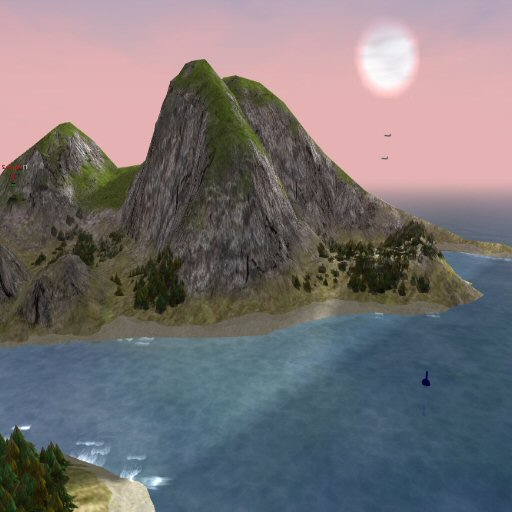
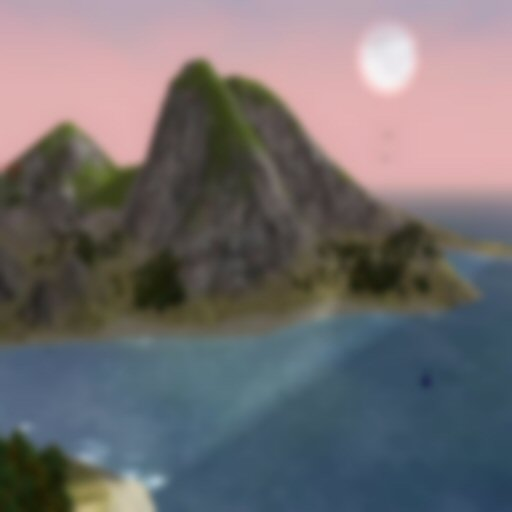
no message

diff --git a/scorched/src/dialogs/BackdropDialog.cpp b/scorched/src/dialogs/BackdropDialog.cpp
@@ -37,12 +37,14 @@ BackdropDialog *BackdropDialog::instance()
 
 BackdropDialog::BackdropDialog() : 
 	GLWWindow("", 0.0f, 0.0f, 0.0f, 0.0f, 0,
-		"The backdrop dialog")
+		"The backdrop dialog"),
+	pixels_(0)
 {
 	windowLevel_ = 5000000;
 
 	GLImageHandle backMap = GLImageFactory::loadImageHandle(
 		getDataFile("data/windows/backdrop.jpg"));
+		//getDataFile("data/windows/logotiled.bmp"));
 	backTex_.create(backMap, false);
 }
 
@@ -52,7 +54,25 @@ BackdropDialog::~BackdropDialog()
 
 void BackdropDialog::draw()
 {
-	drawBackground();
+	if (!pixels_)
+	{
+		drawBackground();
+	}
+	else
+	{
+		GLState state(GLState::DEPTH_OFF | GLState::TEXTURE_OFF);
+
+		glColor3f(1.0f, 1.0f, 1.0f);
+		glPixelStorei(GL_PACK_ALIGNMENT, 4);
+		glPixelStorei(GL_PACK_ROW_LENGTH, 0);
+		glPixelStorei(GL_PACK_SKIP_ROWS, 0);
+		glPixelStorei(GL_PACK_SKIP_PIXELS, 0);
+
+		glRasterPos2i(0, 0);
+		glDrawPixels(GLViewPort::getWidth(), GLViewPort::getHeight(), 
+			GL_RGB, GL_UNSIGNED_BYTE, pixels_);
+	}
+
 	drawLogo();
 }
 
@@ -77,6 +97,32 @@ void BackdropDialog::drawBackground()
 		glTexCoord2f(0.0f, 1.0f);
 		glVertex2f(0.0f, wHeight);
 	glEnd();	
+}
+
+void BackdropDialog::drawBackgroundTiled()
+{
+	GLState currentState(GLState::DEPTH_OFF | GLState::TEXTURE_ON);
+
+	// Calcuate how may tiles are needed
+	float wWidth = (float) GLViewPort::getWidth();
+	float wHeight = (float) GLViewPort::getHeight();
+	float xScale = wWidth / 128.0f;
+	float yScale = wHeight / 128.0f;
+
+	// Draw the tiled logo backdrop
+	float offset_ = 0.0f;
+	backTex_.draw(true);
+	glColor3f(0.2f, 0.2f, 0.2f);
+	glBegin(GL_QUADS);
+		glTexCoord2f(0.0f - offset_, 0.0f + offset_);
+		glVertex2f(0.0f, 0.0f);
+		glTexCoord2f(xScale - offset_, 0.0f + offset_);
+		glVertex2f(wWidth, 0.0f);
+		glTexCoord2f(xScale - offset_, yScale + offset_);
+		glVertex2f(wWidth, wHeight);
+		glTexCoord2f(0.0f - offset_, yScale + offset_);
+		glVertex2f(0.0f, wHeight);
+	glEnd();
 }
 
 void BackdropDialog::drawLogo()
@@ -119,4 +165,61 @@ void BackdropDialog::drawLogo()
 			glVertex2f(0.0f, logoHeight);
 		glEnd();
 	glPopMatrix();
+}
+
+void BackdropDialog::capture()
+{
+	glPixelStorei(GL_PACK_ALIGNMENT, 4);
+	glPixelStorei(GL_PACK_ROW_LENGTH, 0);
+	glPixelStorei(GL_PACK_SKIP_ROWS, 0);
+	glPixelStorei(GL_PACK_SKIP_PIXELS, 0);
+
+	unsigned char *screenpixels = new unsigned char[GLViewPort::getWidth() * GLViewPort::getHeight() * 3];
+	glReadPixels(0, 0, GLViewPort::getWidth(), GLViewPort::getHeight(), GL_RGB, GL_UNSIGNED_BYTE, screenpixels);
+
+	if (!pixels_) pixels_ = new unsigned char[GLViewPort::getWidth() * GLViewPort::getHeight() * 3];
+
+	unsigned char *dest = pixels_;
+	unsigned char *src = screenpixels;
+	for (int y=0; y<GLViewPort::getHeight(); y++)
+	{
+		for (int x=0; x<GLViewPort::getWidth(); x++, dest+=3, src+=3)
+		{
+			int totalr = 0;
+			int totalg = 0;
+			int totalb = 0;
+			if (x>=3 && x<GLViewPort::getWidth()-3 &&
+				y>=3 && y<GLViewPort::getHeight()-3)
+			{
+				for (int a=-3; a<=3; a++)
+				{
+					for (int b=-3; b<=3; b++)
+					{
+						int srcx = a + x;
+						int srcy = b + y;
+						unsigned char *src2 = src + a * 3 + b * GLViewPort::getWidth() * 3;
+
+						totalr += src2[0];
+						totalg += src2[1];
+						totalb += src2[2];
+					}
+				}
+				totalr /= 49;
+				totalg /= 49;
+				totalb /= 49;
+			}
+			else
+			{
+				totalr = src[0];
+				totalg = src[1];
+				totalb = src[2];
+			}
+
+			dest[0] = totalr;
+			dest[1] = totalg;
+			dest[2] = totalb;
+		}
+	}
+
+	delete [] screenpixels;
 }

diff --git a/scorched/src/client/ClientMain.cpp b/scorched/src/client/ClientMain.cpp
@@ -61,6 +61,7 @@
 #include <graph/Display.h>
 #include <dialogs/HelpButtonDialog.h>
 #include <dialogs/AnimatedBackdropDialog.h>
+#include <dialogs/BackdropDialog.h>
 #include <server/ScorchedServer.h>
 #include <GLEXT/GLConsoleFileReader.h>
 #include <GLEXT/GLConsole.h>
@@ -241,7 +242,7 @@ static bool initClient()
 	return true;
 }
 
-bool ClientMain::startClient()
+static bool startClientInternal()
 {
 	// Check if we are connecting to a server
 	if (ClientParams::instance()->getConnect()[0])
@@ -294,6 +295,14 @@ bool ClientMain::startClient()
 	}
 
 	return true;
+}
+
+bool ClientMain::startClient()
+{
+	AnimatedBackdropDialog::instance()->drawBackground();
+	BackdropDialog::instance()->capture();
+
+	return startClientInternal();
 }
 
 bool ClientMain::clientEventLoop(float frameTime)
@@ -386,7 +395,7 @@ bool ClientMain::clientMain()
 	OptionsDisplayConsole::instance()->addDisplayToConsole();
 
 	// Try and start the client
-	if (!startClient()) return false;
+	if (!startClientInternal()) return false;
 
 	// Enter the SDL main loop to process SDL events
 	Clock loopClock;

diff --git a/scorched/src/dialogs/AnimatedBackdropDialog.cpp b/scorched/src/dialogs/AnimatedBackdropDialog.cpp
@@ -26,6 +26,7 @@
 #include <graph/Main2DCamera.h>
 #include <graph/OptionsDisplay.h>
 #include <engine/ActionController.h>
+#include <engine/MainLoop.h>
 #include <tankgraph/RenderTargets.h>
 #include <landscape/Landscape.h>
 #include <client/ScorchedClient.h>
@@ -94,9 +95,19 @@ void AnimatedBackdropDialog::init()
 	Landscape::instance()->reset(&progressCounter);
 
 	OptionsDisplay::instance()->getNoWaterMovementEntry().setValue(waterMove);
+
+	// Hack to get camera synched
+	simulate(5.0f);
+	ScorchedClient::instance()->getMainLoop().getTimer().getTimeDifference();
 }
 
 void AnimatedBackdropDialog::draw()
+{
+	drawBackground();
+	BackdropDialog::instance()->drawLogo();
+}
+
+void AnimatedBackdropDialog::drawBackground()
 {
 	if (!init_) init();
 
@@ -111,8 +122,6 @@ void AnimatedBackdropDialog::draw()
 
 	// Return the viewport to the original
 	Main2DCamera::instance()->draw(0);
-
-	BackdropDialog::instance()->drawLogo();
 }
 
 void AnimatedBackdropDialog::simulate(float frameTime)

diff --git a/scorched/src/dialogs/BackdropDialog.h b/scorched/src/dialogs/BackdropDialog.h
@@ -31,13 +31,17 @@ public:
 
 	virtual void draw();
 	void drawBackground();
+	void drawBackgroundTiled();
 	void drawLogo();
+
+	void capture();
 
 protected:
 	static BackdropDialog *instance_;
 	GLTexture backTex_;
 	GLTexture logoTex_;
 	std::string lastMod_;
+	unsigned char *pixels_;
 
 private:
 	BackdropDialog();

diff --git a/scorched/src/dialogs/AnimatedBackdropDialog.h b/scorched/src/dialogs/AnimatedBackdropDialog.h
@@ -31,6 +31,7 @@ public:
 	static AnimatedBackdropDialog *instance();
 
 	virtual void draw();
+	void drawBackground();
 	virtual void simulate(float frameTime);
 
 protected:
